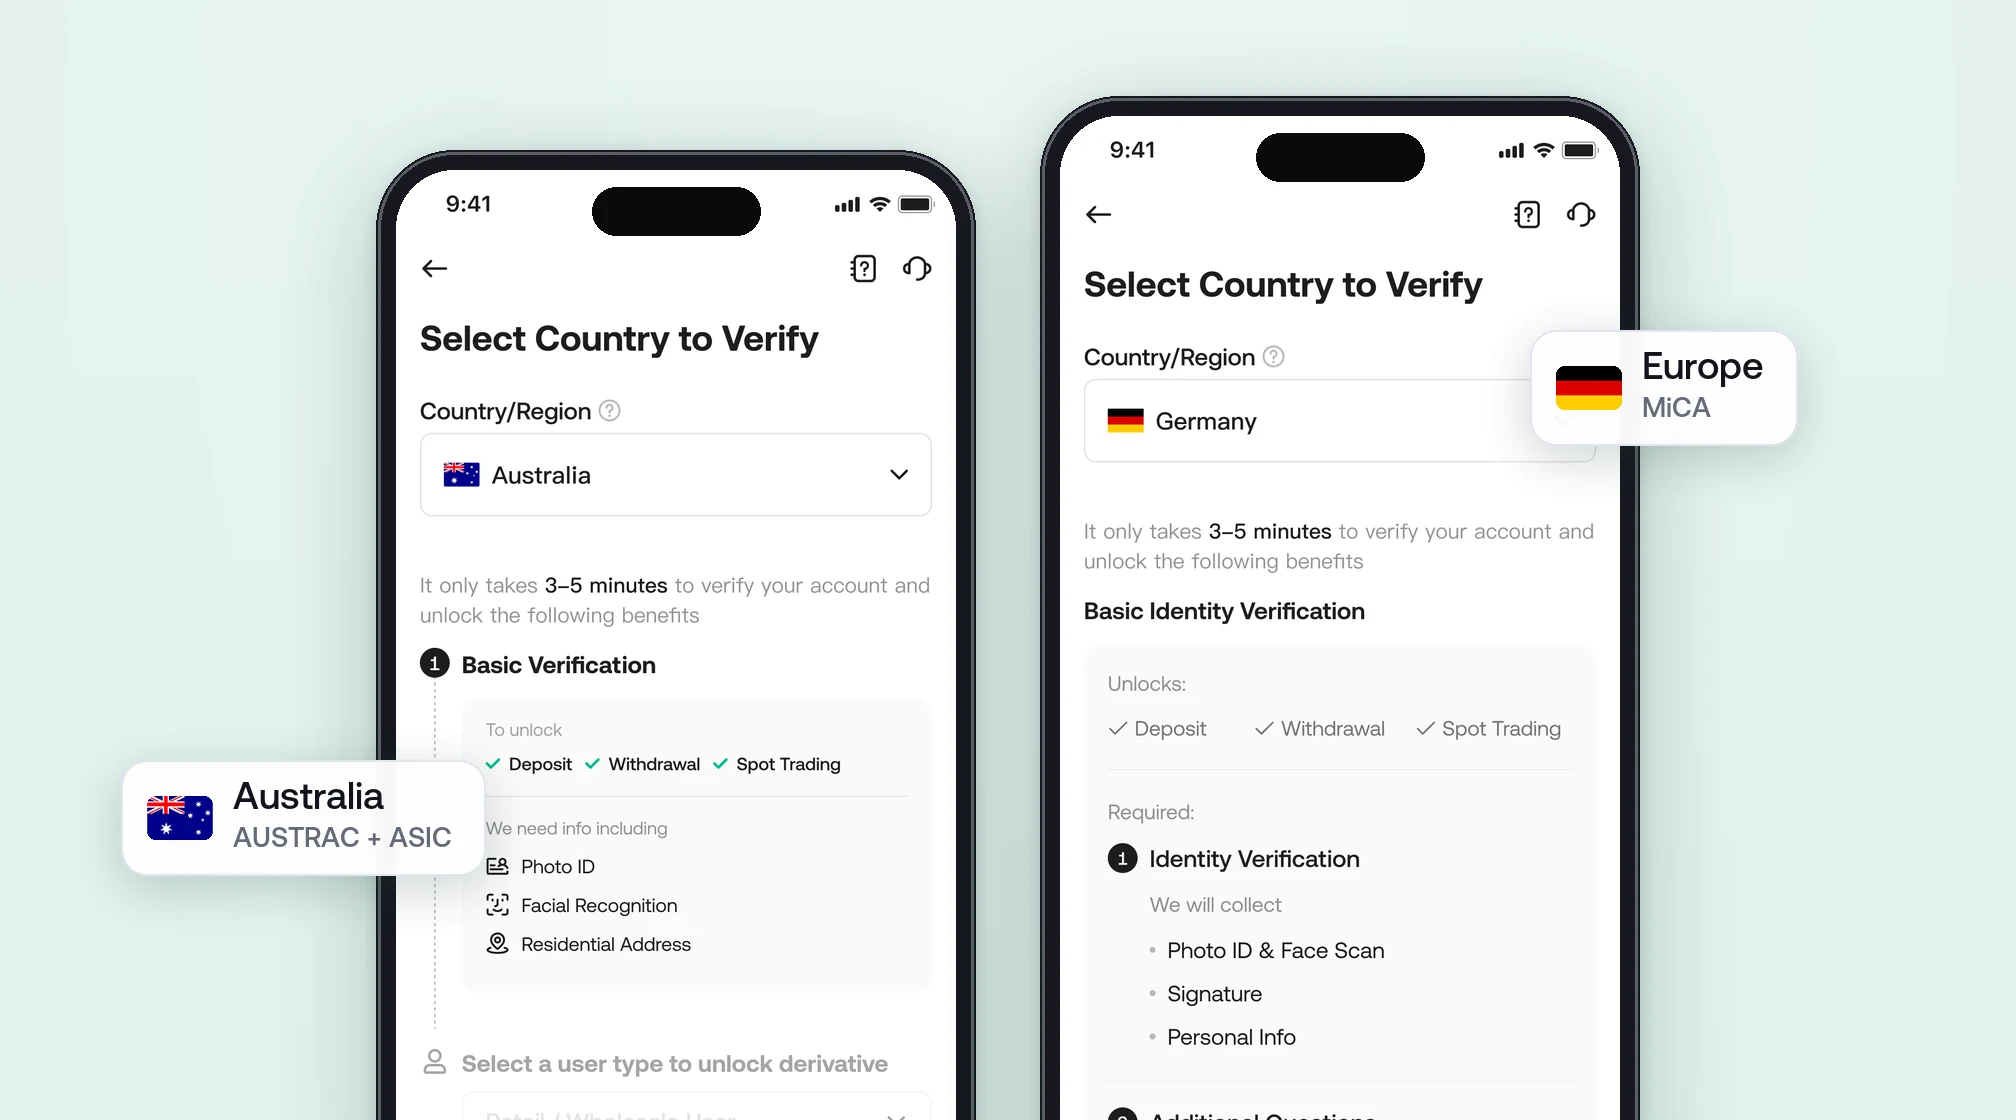
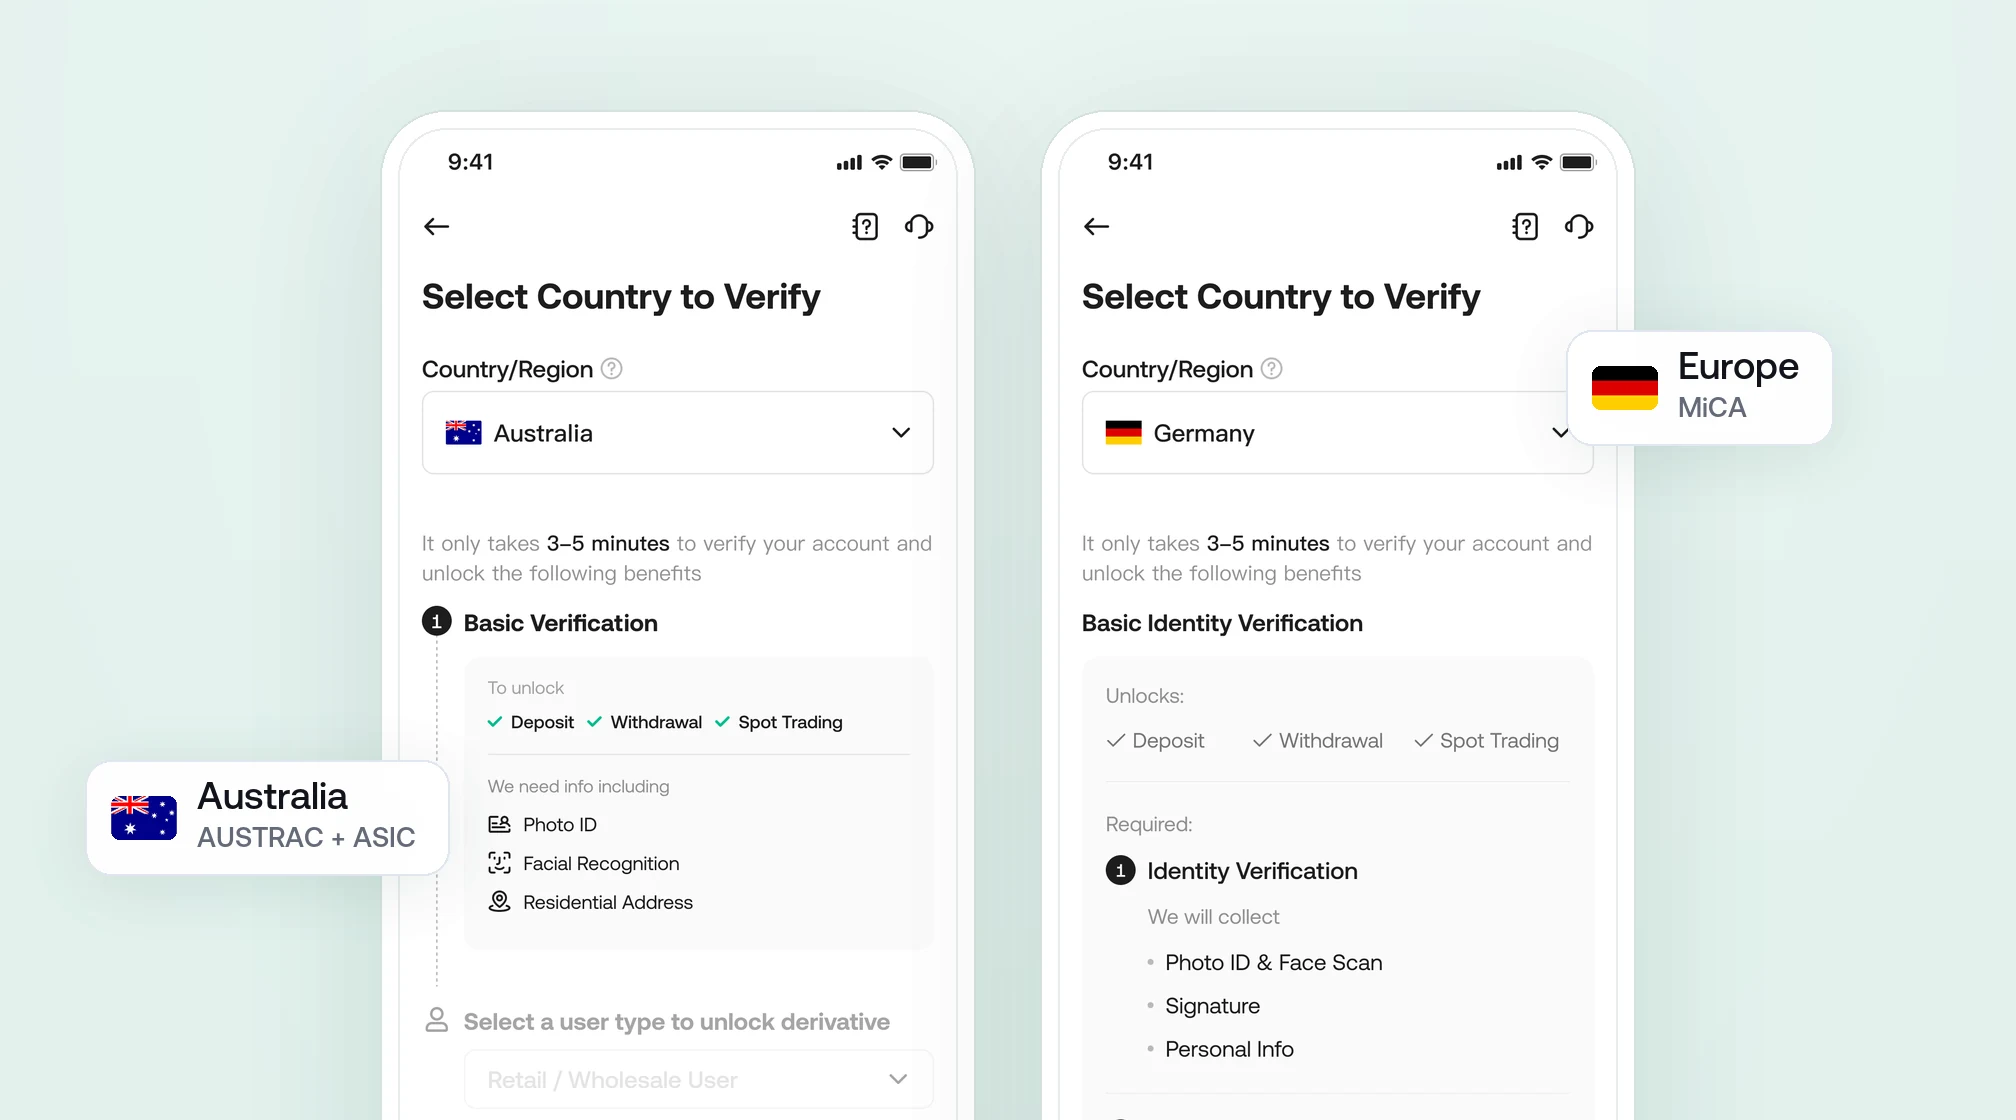
Refine KYC home cover: light green background, white-framed top-aligned screens, softer shadows

Changed region(s): [[0.0312, 0.0625, 0.9062, 1.0], [0.625, 0.625, 0.6875, 0.6875]]

diff --git a/index.html b/index.html
@@ -137,7 +137,7 @@
                     </a>
 
                     <a href="kyc-aus.html" class="card" data-tags="featured,crypto" data-featured-order="2">
-                        <img class="coverimg coverimg--top" src="resources/images-kyc-aus/kyc-cover-v2.webp?v=3" width="2016" height="1120" alt="Retail KYC on mobile: the same country-selection step for Australia and Germany, with different requirements">
+                        <img class="coverimg coverimg--top" src="resources/images-kyc-aus/kyc-cover-v2.webp?v=6" width="2016" height="1120" alt="Retail KYC on mobile: the same country-selection step for Australia and Germany, with different requirements">
                         <div class="card-description">
                             <div class="caption">2025 <span class="dot" aria-hidden="true"></span> KuCoin</div>
                             <div class="card-title">Retail KYC — Australia and Europe</div>
